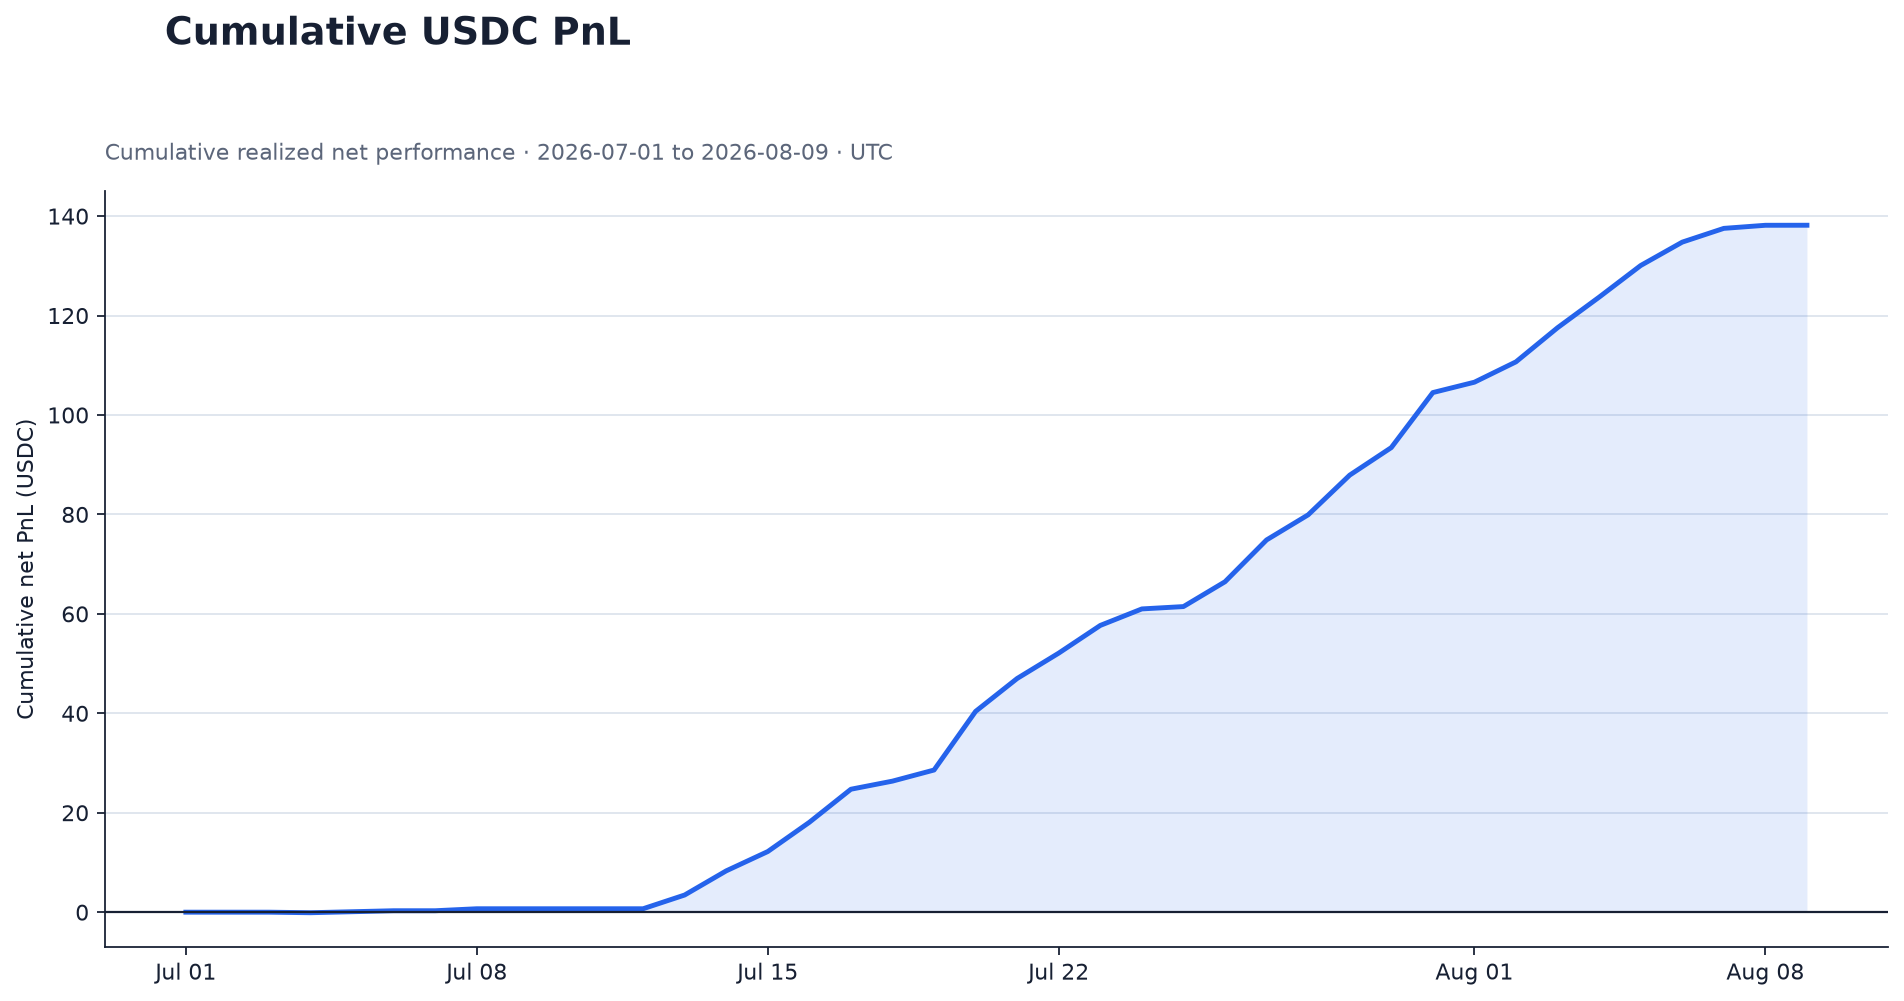
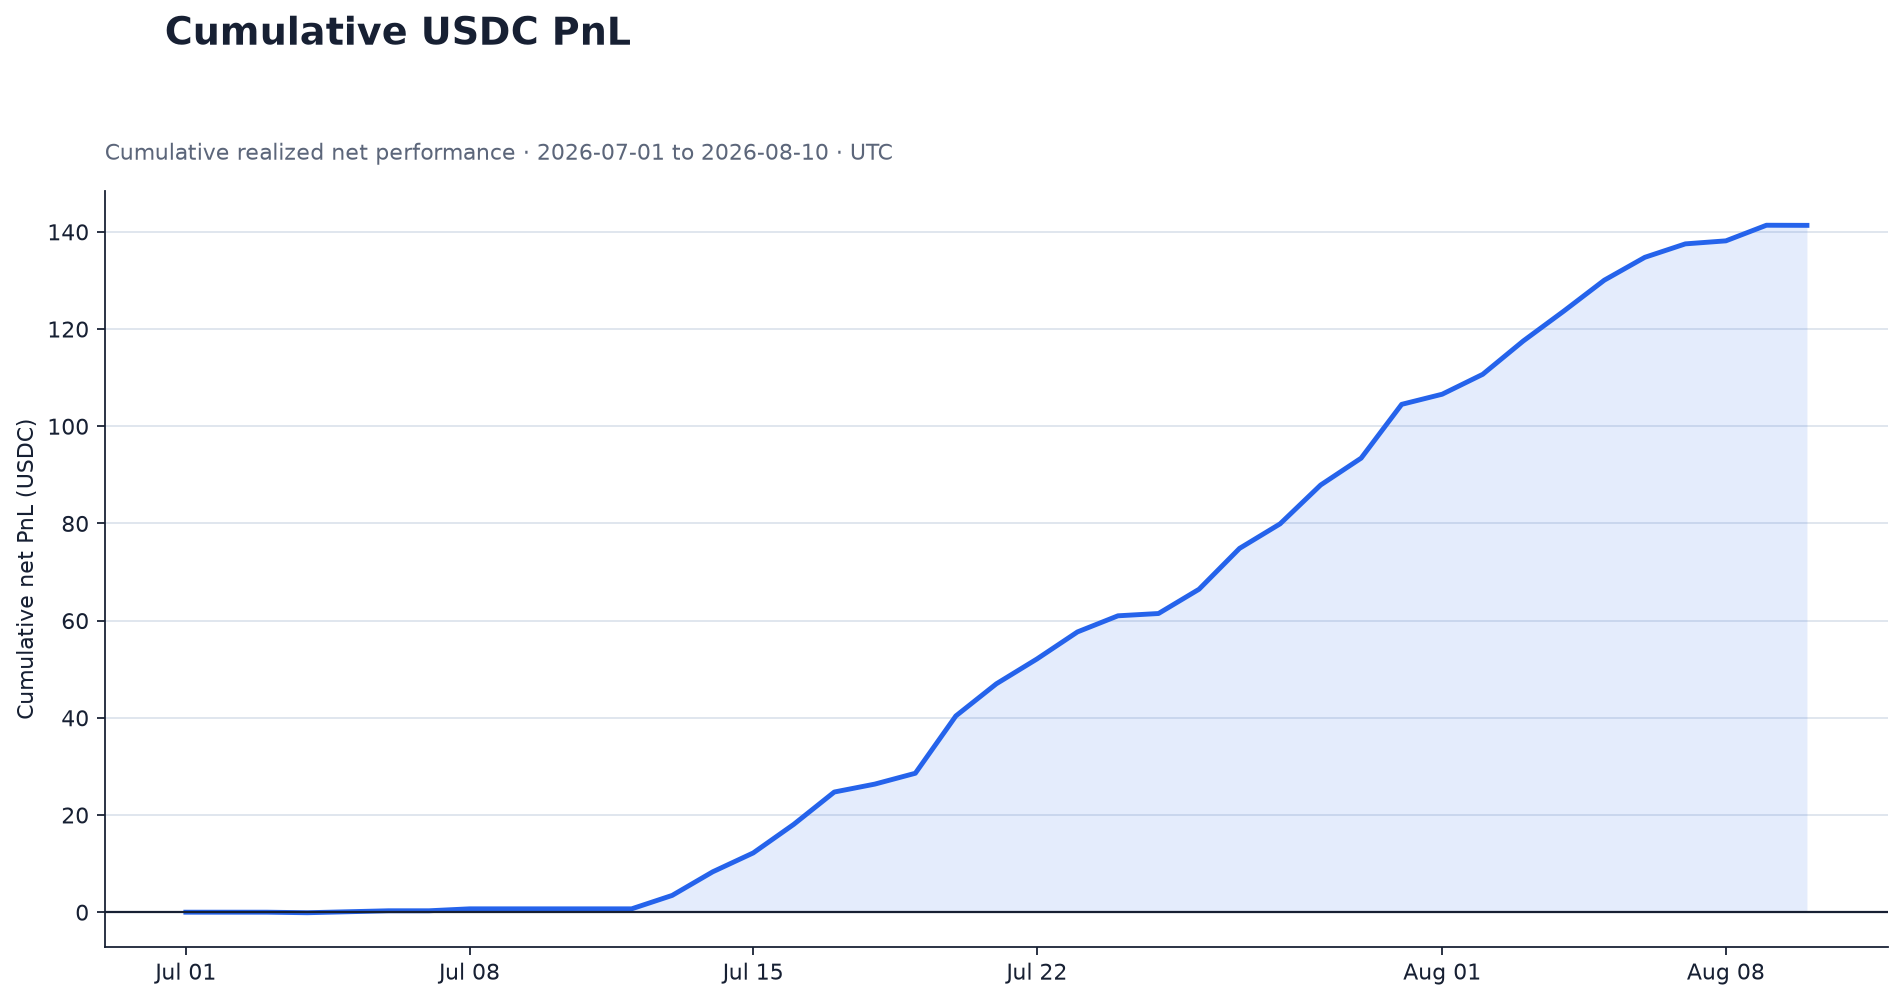
chore: update USDC performance

diff --git a/reports/performance_summary.md b/reports/performance_summary.md
@@ -1,7 +1,7 @@
 # Performance Summary
 
-Generated at: **2026-08-09T00:10:08Z**<br>
-Coverage: **2026-07-01 to 2026-08-09 (UTC)**<br>
+Generated at: **2026-08-10T00:10:11Z**<br>
+Coverage: **2026-07-01 to 2026-08-10 (UTC)**<br>
 Scope: **Daily USDC USD-M Futures realized performance**
 
 Absolute account values are not published. USD-M Futures transfers are excluded from trading return.
@@ -9,29 +9,30 @@ Sharpe and Sortino use private total daily returns including unrealized PnL; unr
 
 | Metric | Value |
 |---|---:|
-| Cumulative Return | 3.11% |
-| Latest Daily Return | 0.00% |
-| Annualized Return | 32.29% |
-| Annualized Volatility | 1.36% |
-| Sharpe Ratio | 5.697007 |
-| Sortino Ratio | 10.113747 |
+| Cumulative Return | 3.18% |
+| Latest Daily Return | -0.00% |
+| Annualized Return | 35.14% |
+| Annualized Volatility | 1.33% |
+| Sharpe Ratio | 5.743508 |
+| Sortino Ratio | 10.193513 |
 | Maximum Drawdown | -0.01% |
-| Calmar Ratio | 3535.400458 |
-| Win Rate | 96.88% |
-| Profit Factor | 1262.143095 |
-| Total Realized Pnl Usdc | 136.489299 |
+| Calmar Ratio | 3847.393824 |
+| Win Rate | 93.94% |
+| Profit Factor | 1058.840772 |
+| Total Realized Pnl Usdc | 139.644199 |
 | Total Commission Usdc | -0.075227 |
-| Total Funding Fee Usdc | 1.747106 |
-| Total Net Pnl Usdc | 138.161177 |
-| Number Of Trading Days | 32 |
-| Number Of Trades | 987 |
-| Valid Return Days | 40 |
-| Excluded Return Days | 0 |
+| Total Funding Fee Usdc | 1.772075 |
+| Total Net Pnl Usdc | 141.341046 |
+| Number Of Trading Days | 33 |
+| Number Of Trades | 1000 |
+| Valid Return Days | 38 |
+| Excluded Return Days | 3 |
 | Annualization Factor | 365 |
 
 ## Warnings and coverage notes
 
 - Non-performance income types were treated as capital adjustments: COIN_SWAP_DEPOSIT
+- 3 day(s) were excluded from ratios because the reconstructed capital base was invalid.
 - Sharpe and Sortino include unrealized PnL and begin on 2026-07-06 because earlier official equity snapshots are unavailable.
 
 ## Definitions
